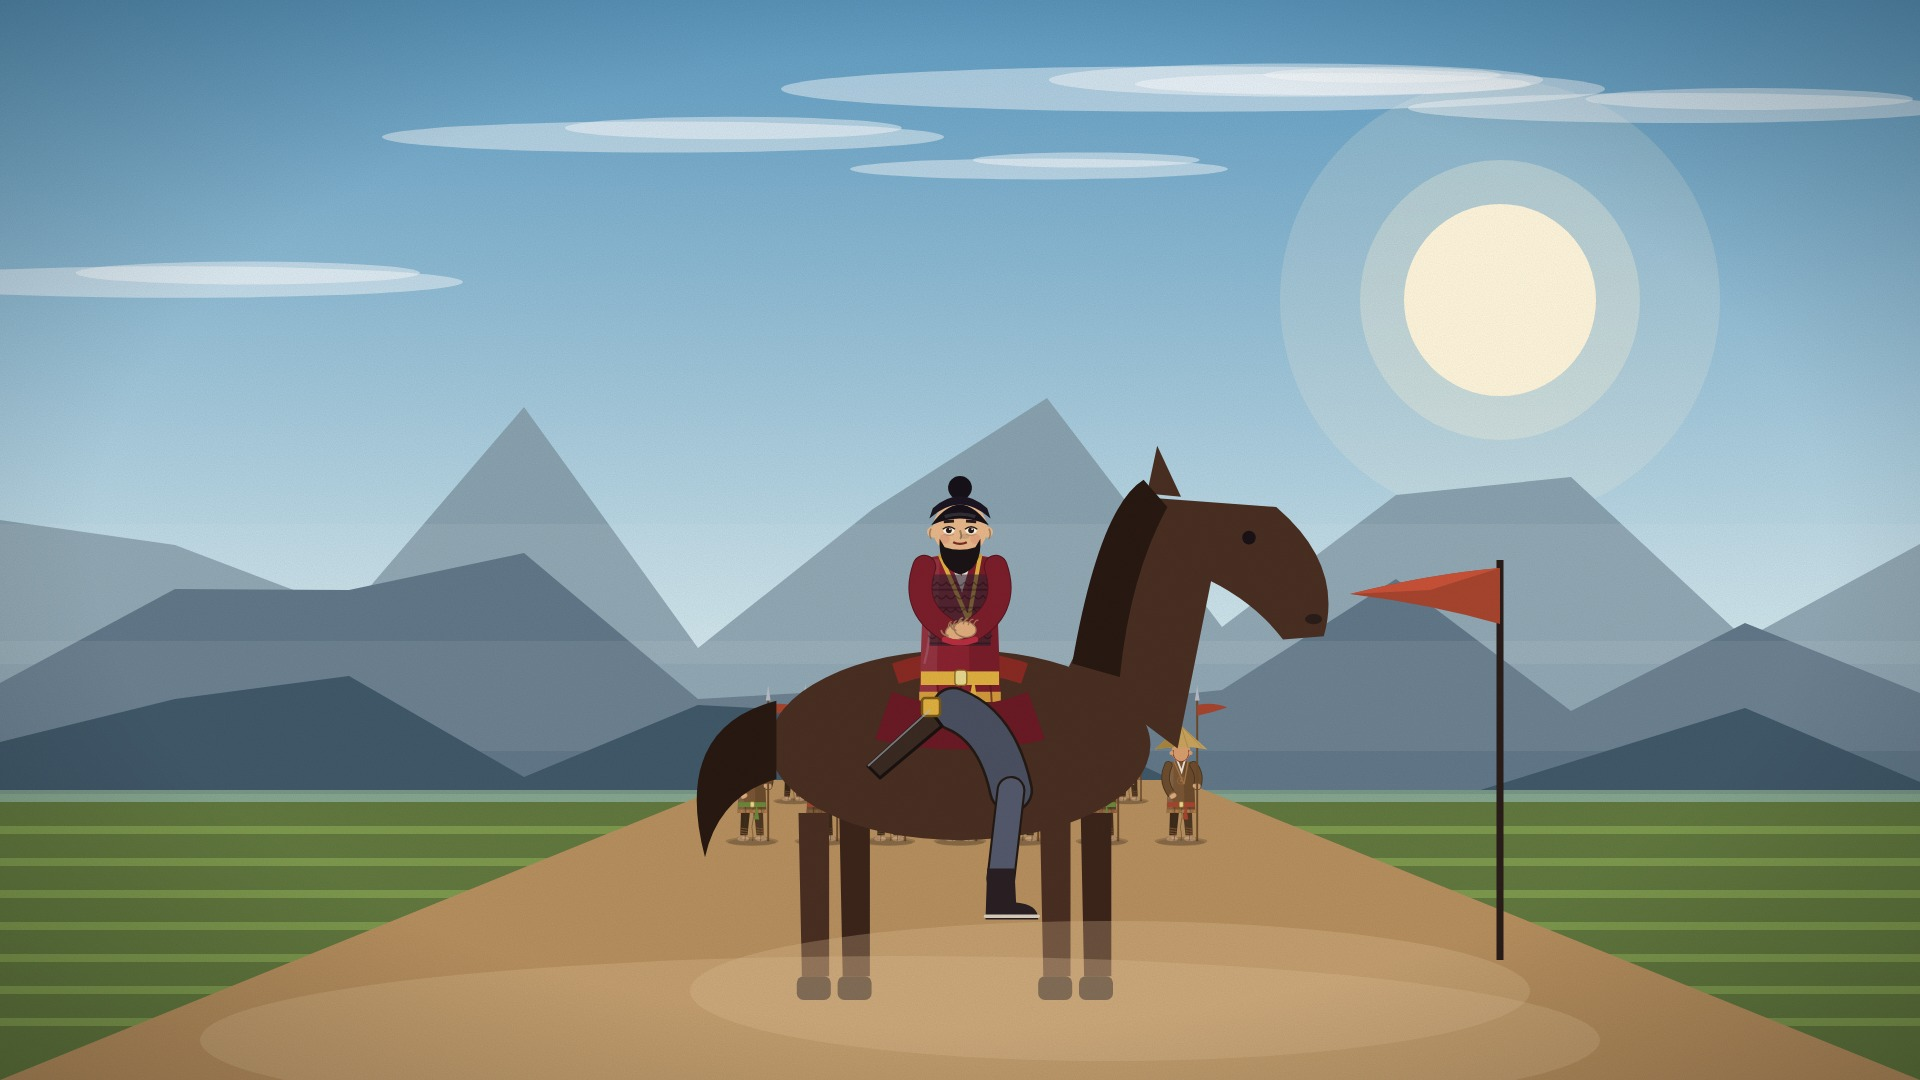
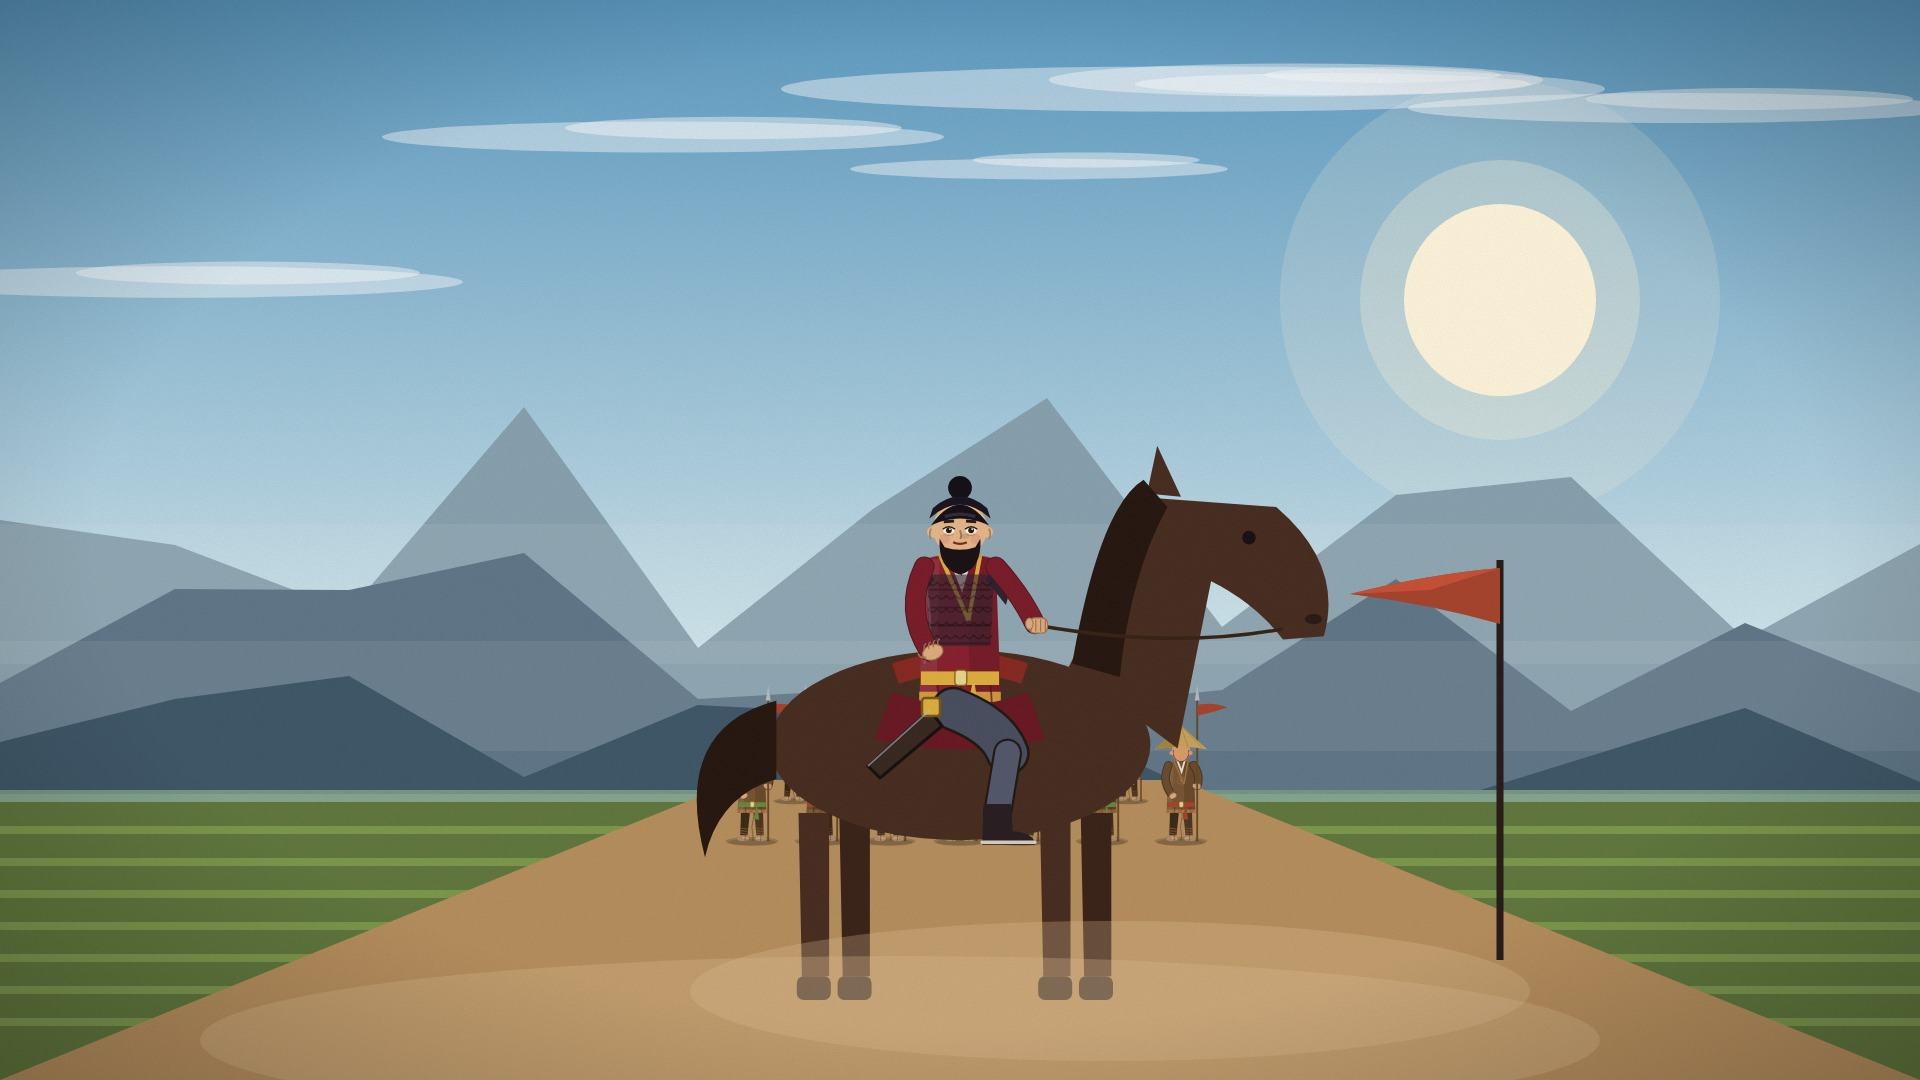
Thử tay chân: người cưỡi ngựa cầm cương, chân ngắn đúng tỉ lệ [skip ci]
Claude-Session: https://claude.ai/code/session_019qmx8YiPWui2GSjFMsWHvU

Changed region(s): [[0.5, 0.6417, 0.5625, 0.8556], [0.4688, 0.5194, 0.5625, 0.6111], [0.625, 0.5806, 0.6562, 0.6111]]

diff --git a/phim_ban_do/phang/canh.py b/phim_ban_do/phang/canh.py
@@ -64,14 +64,14 @@ def sit(who_or_dict, x, seat_y, s=1.0, lap=True, **ov):
         if _fl.LIMBS and seat_y > 300:
             # chân thõng bên sườn ngựa: đùi, gối, ống chân, giày ủng, bàn đạp
             tr = '#4b5062'
-            kx, ky = x + 30 * sc, seat_y + 52 * sc      # đầu gối
-            ax, ay = x + 24 * sc, seat_y + 104 * sc     # cổ chân
+            kx, ky = x + 28 * sc, seat_y + 30 * sc      # đầu gối
+            ax, ay = x + 22 * sc, seat_y + 66 * sc      # cổ chân
             o += (f'<path d="M{x-4*sc},{seat_y+4*sc} Q{x+22*sc},{seat_y+14*sc} {kx},{ky}" stroke="#241a14" stroke-width="{26*sc}" fill="none" stroke-linecap="round"/>'
                   f'<path d="M{x-4*sc},{seat_y+4*sc} Q{x+22*sc},{seat_y+14*sc} {kx},{ky}" stroke="{tr}" stroke-width="{23*sc}" fill="none" stroke-linecap="round"/>'
                   f'<path d="M{kx},{ky} L{ax},{ay}" stroke="#241a14" stroke-width="{17*sc}" fill="none" stroke-linecap="round"/>'
                   f'<path d="M{kx},{ky} L{ax},{ay}" stroke="{sh(tr,1.12)}" stroke-width="{14.5*sc}" fill="none" stroke-linecap="round"/>'
-                  f'<path d="M{ax-8*sc},{ay-6*sc} L{ax+8*sc},{ay-6*sc} L{ax+9*sc},{ay+14*sc} Q{ax+22*sc},{ay+15*sc} {ax+22*sc},{ay+24*sc} L{ax-9*sc},{ay+24*sc}Z" fill="#2a2024"/>'
-                  f'<path d="M{ax-9*sc},{ay+22*sc} L{ax+22*sc},{ay+22*sc}" stroke="#d9d0c0" stroke-width="{2*sc}" stroke-linecap="round"/>')
+                  f'<path d="M{ax-8*sc},{ay-6*sc} L{ax+8*sc},{ay-6*sc} L{ax+9*sc},{ay+10*sc} Q{ax+22*sc},{ay+11*sc} {ax+22*sc},{ay+18*sc} L{ax-9*sc},{ay+18*sc}Z" fill="#2a2024"/>'
+                  f'<path d="M{ax-9*sc},{ay+16.5*sc} L{ax+22*sc},{ay+16.5*sc}" stroke="#d9d0c0" stroke-width="{2*sc}" stroke-linecap="round"/>')
     return o
 
 
@@ -308,7 +308,7 @@ def _():
     L.append(road_back('day'))
     L.append(rows([(800, .45, 7), (840, .6, 7)], back=False, seed=6))
     L.append(horse(960, 1000, 1.7, '#4a2e22', facing=1))
-    L.append(sit('LTK_G', 960, 1000 - 350 + 52, 1.7, pose='hands'))
+    L.append(sit('LTK_G', 960, 1000 - 350 + 52, 1.7, pose='rein'))
     # kiếm trong bao đeo hông
     L.append(f'<path d="M{960-30},{1000-350+60} l-62,56 l12,12 l62,-52Z" fill="#3a2a22" stroke="#1a1210" stroke-width="3" stroke-linejoin="round"/><rect x="{960-38}" y="{1000-350+48}" width="18" height="18" rx="3" fill="#e0b040" stroke="#7a5a18" stroke-width="2.5"/><path d="M{960-30},{1000-350+60} l-62,56" stroke="#b9bcc4" stroke-width="2" opacity=".6"/>')
     L.append(pennant(1500, 560, 960, PEN_V, 150))

diff --git a/phim_ban_do/phang/flat.py b/phim_ban_do/phang/flat.py
@@ -168,6 +168,8 @@ def _shoes(x, y, s):
 
 
 def _arms(x, y, s, col, pose, wide=False):
+    if pose == 'rein' and not LIMBS:
+        pose = 'hands'
     if LIMBS:
         return _arms_limbs(x, y, s, col, pose, wide)
     return _arms_old(x, y, s, col, pose, wide)
@@ -189,6 +191,15 @@ def _arms_limbs(x, y, s, col, pose, wide=False):
         o += _hand(x - 2 * s, y - h * 0.575, s, ang=-8)
         o += _hand(x + 3 * s, y - h * 0.585, s, ang=8)
         o += f'<path d="M{x-9*s},{y-h*0.545} Q{x},{y-h*0.52} {x+9*s},{y-h*0.545}" stroke="{cuff}" stroke-width="{3.4*s}" fill="none" stroke-linecap="round"/>'
+        return o
+    if pose == 'rein':
+        # người cưỡi ngựa: tay gần cầm dây cương đưa ra trước, tay xa đặt trên đùi
+        o += _tube(((x - 21 * s, y - h * 0.83), (x - 33 * s, y - h * 0.66), (x - 18 * s, y - h * 0.5)), w * 0.86, c, dk)
+        o += _hand(x - 16 * s, y - h * 0.495, s * 0.95, ang=-20)
+        hx, hy = x + 46 * s, y - h * 0.6
+        o += f'<path d="M{hx},{hy} Q{hx+80*s},{hy+14*s} {hx+144*s},{hy+2*s}" stroke="#3a2418" stroke-width="{2*s}" fill="none"/>'
+        o += _tube(((x + 21 * s, y - h * 0.83), (x + 36 * s, y - h * 0.72), (hx - 2 * s, hy - 1 * s)), w * 0.86, c, dk)
+        o += _hand(hx, hy, s, ang=0, grip=True)
         return o
     if pose == 'spear':
         # tay xa chống hông, tay gần nắm cán giáo
